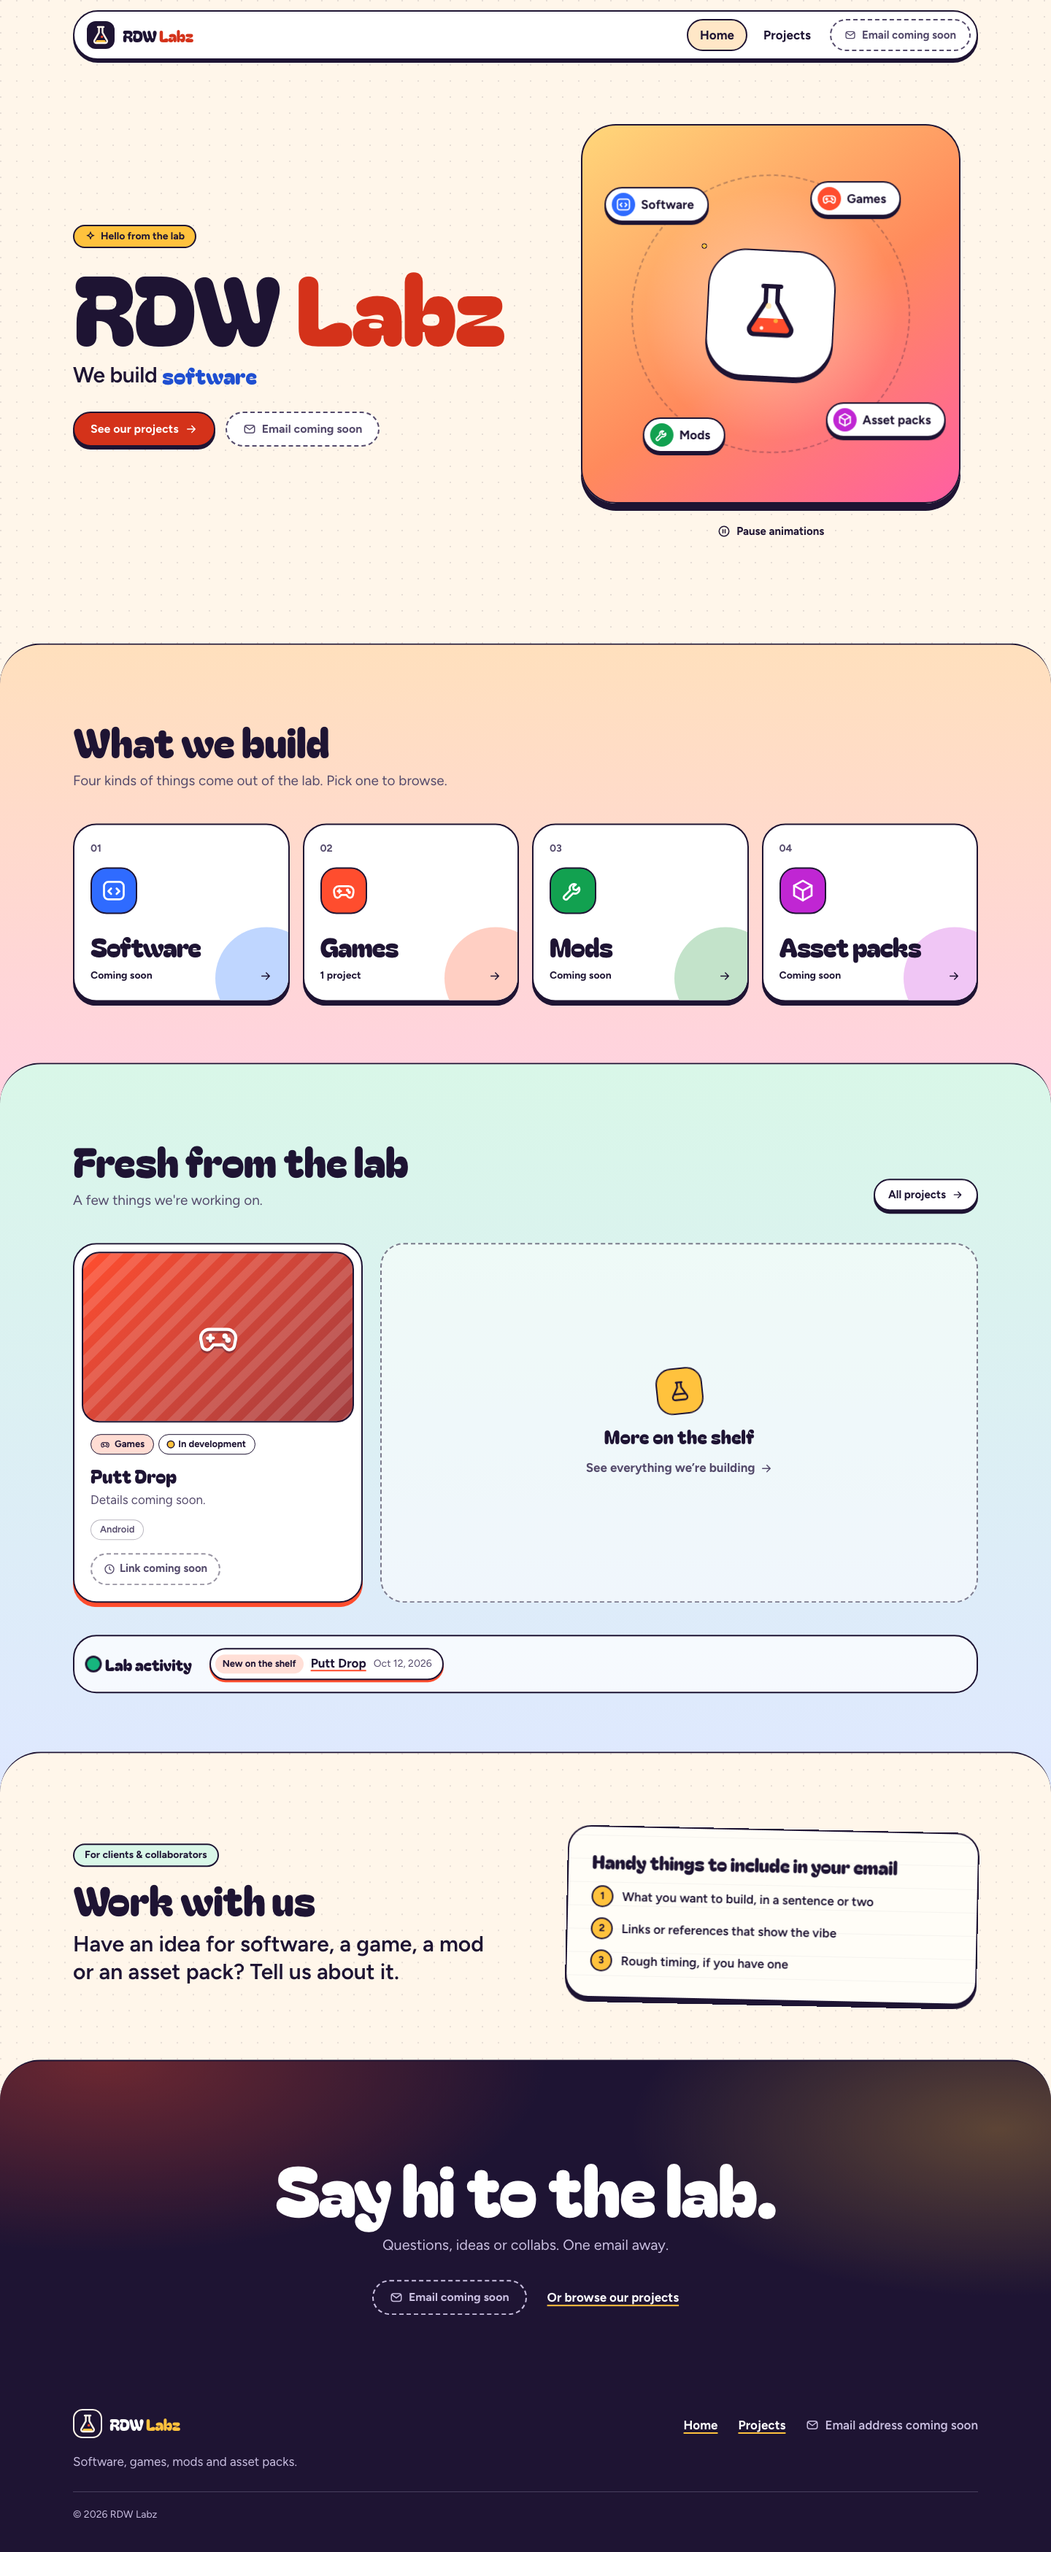
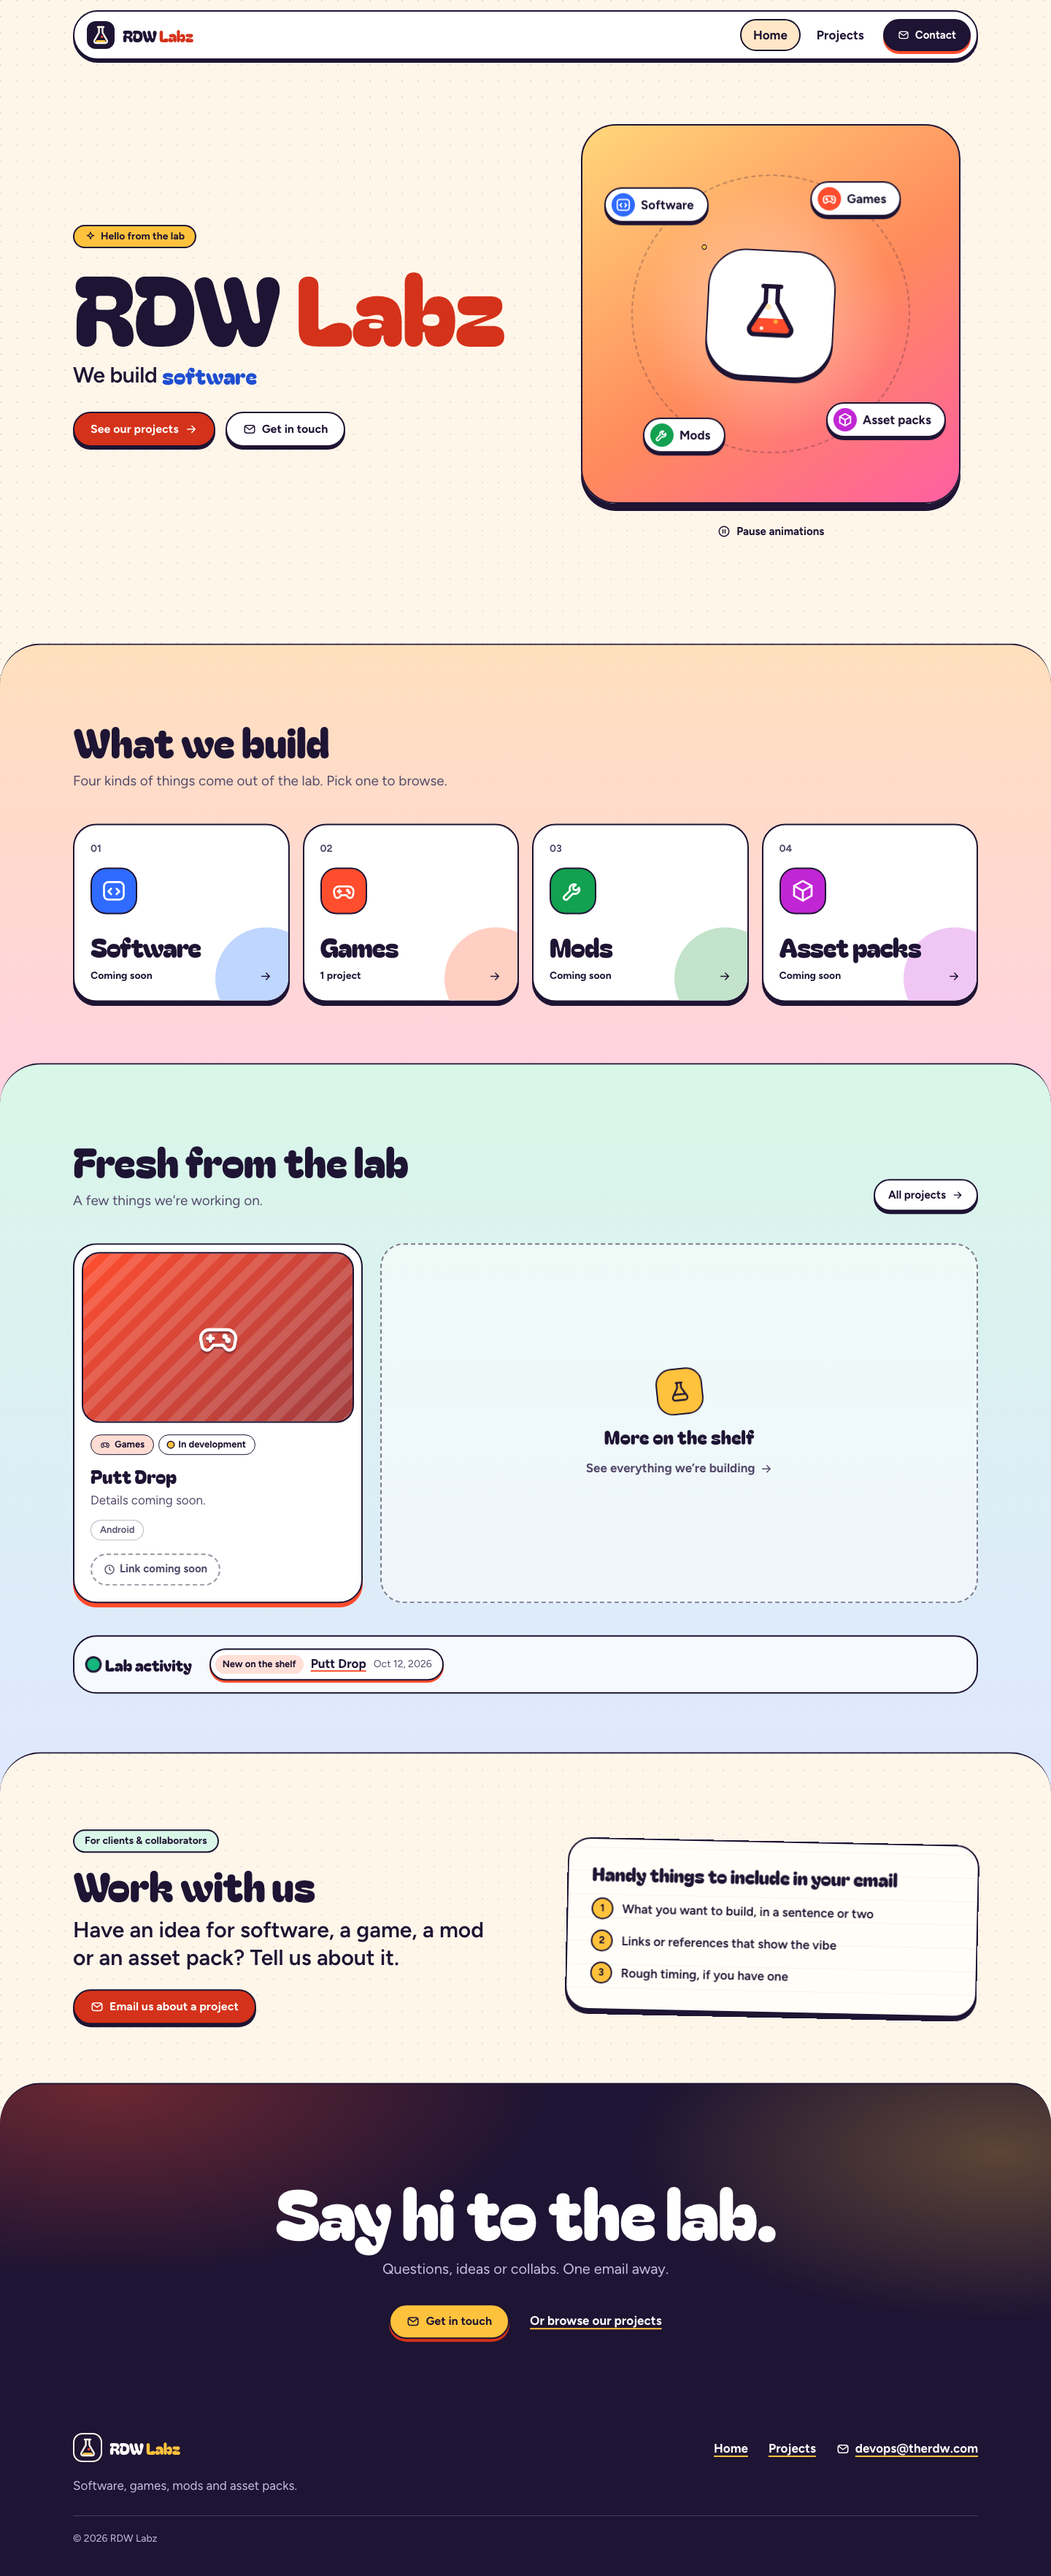
Set contact email to devops@therdw.com; add contact buttons to Work with us and 404

diff --git a/tests/site.spec.ts b/tests/site.spec.ts
@@ -186,12 +186,30 @@ test('unknown routes return the branded 404', async ({ page }) => {
   await expect(page.getByRole('link', { name: 'Back to the lab' })).toHaveAttribute('href', '/');
 });
 
-test('contact: placeholder email never renders a mailto to a TODO address', async ({ page }) => {
+const MAILTO = 'mailto:devops@therdw.com';
+
+for (const path of PAGES) {
+  test(`${path}: every contact spot is a real mailto, no "Email coming soon"`, async ({ page }) => {
+    await page.goto(path);
+    await expect(page.getByText(/email (address )?coming soon/i)).toHaveCount(0);
+    const mailtos = page.locator('a[href^="mailto:"]');
+    expect(await mailtos.count()).toBeGreaterThan(0);
+    for (const a of await mailtos.all()) await expect(a).toHaveAttribute('href', MAILTO);
+    await expect(page.locator(`header a[href="${MAILTO}"]`).first()).toHaveText(/Contact/);
+    await expect(page.locator(`footer a[href="${MAILTO}"]`)).toHaveText(/devops@therdw\.com/);
+  });
+}
+
+test('home: hero, Work with us and CTA band all link to the contact email', async ({ page }) => {
   await page.goto('/');
-  const mailtos = page.locator('a[href^="mailto:"]');
-  for (const a of await mailtos.all()) {
-    await expect(a).not.toHaveAttribute('href', /todo/i);
+  for (const scope of ['[data-hero]', '.wwu', '.cta']) {
+    await expect(page.locator(`${scope} a[href="${MAILTO}"]`), scope).toHaveCount(1);
   }
+});
+
+test('404: offers a way to email the lab', async ({ page }) => {
+  await page.goto('/does-not-exist');
+  await expect(page.locator(`main a[href="${MAILTO}"]`)).toHaveCount(1);
 });
 
 test('SEO: canonical, OG tags, sitemap, robots, favicons', async ({ page, request }) => {

diff --git a/docs/PREFLIGHT.md b/docs/PREFLIGHT.md
@@ -1,6 +1,6 @@
 # Preflight
 
-**Overall: PARTIALLY VERIFIED. Not ready to launch.** Every check the agent could run passes. Launch is blocked on real content (there's no contact email yet, so the site has no working contact route; Putt Drop has no link or one-liner; the tagline is the fallback) and on checks that need a human or a deployed site (screen reader, real devices, other browsers, field metrics).
+**Overall: PARTIALLY VERIFIED. Not ready to launch.** Every check the agent could run passes. Launch is blocked on real content (Putt Drop has no link or one-liner; the tagline is the fallback) and on checks that need a human or a deployed site (screen reader, real devices, other browsers, field metrics).
 
 Last updated 2026-10-12 after Round 2 (Bagel Fat One headings, playful motion, the opt-in project tracker and the Lab activity strip). Unless noted, everything ran against the **production build** (`astro build && astro preview`) in Playwright Chromium.
 
@@ -10,7 +10,7 @@ Status key: PASS · FAIL · BLOCKED · NOT RUN · N/A (with reason)
 |---|---|---|---|---|
 | Scope matches v1 | Home, Projects, 404; footer mailto only; no forms, CMS, logins, store or blog | PASS | `dist/` contains only `index.html`, `projects.html`, `404.html` + assets. The e2e test "dev-only routes are not in the production build" passes | — |
 | No invented facts | All copy and data | PASS | Every unknown is a `TODO:` in `src/data/projects.json` and renders as "coming soon" UI. Entries whose name is TODO are never shown or counted; categories with 0 real projects show "Coming soon" instead of a count, and their filter chip has no count badge (e2e "placeholder entries are never shown or counted"). The hero eyebrow was changed from "Indie dev lab" to "Hello from the lab" (Review pass 1 #3) | Real content is needed (see the TODOs below) |
-| Contact never points at a placeholder | Header, hero, CTA band, footer | PASS | e2e "contact: placeholder email never renders a mailto to a TODO address" | The contact email is still TODO, so there is currently **no working contact route** |
+| Contact | Header Contact pill + mobile menu, hero, Work with us, CTA band, footer, 404 | PASS | `site.contactEmail` is `devops@therdw.com`. e2e on all 3 pages: every mailto is `mailto:devops@therdw.com`, there's no "Email coming soon" text, and the header and footer link to it. Hero, Work with us, CTA band and 404 each have one. The built HTML has no `TODO@` left | The address is on therdw.com, not rdwlabz.com (Braden's choice, 2026-10-12) |
 | Design-system consistency | Tokens, primitives, all pages | PASS (manual review) | `/_gallery` (dev only) with screenshots in `docs/screenshots/gallery/`. Review pass 1 checked the pages against `docs/ART-DIRECTION.md` | — |
 | Journeys and states | 3 journeys from `docs/BRIEF.md`; filters; empty, coming-soon and 404 states; long and short content | PASS | e2e tile → filter journey, filters by click/Space/Enter/URL/reset, empty state, unknown `?c=`, 404 status and page. Fixture builds (`scripts/fixture-build.mjs twenty\|one`) reviewed in pass 2 | — |
 | Responsive | 1440 / 768 / 390 and 320 reflow | PASS | `docs/screenshots/{home,projects,404}-{desktop,tablet,mobile}.png`. e2e reflow at 320px with no horizontal scroll on all 3 pages | — |
@@ -27,7 +27,7 @@ Status key: PASS · FAIL · BLOCKED · NOT RUN · N/A (with reason)
 | Lighthouse (lab) | Mobile profile, 3 runs, median: `/`, `/projects`, `/404` | PASS (rerun after Round 2) | `npm run lhci`: `/` and `/projects` scored 100/100/100/100; `/404` scored 100/100/100 with SEO 63 (intended `noindex`, not gated). LCP about 1.35 s, TBT 0 ms, CLS 0 | Lab numbers from localhost only |
 | Field performance (LCP / INP / CLS) | Real users | NOT RUN | — | Needs a deployed site + Web Analytics |
 | Cross-browser and real devices | Safari, Firefox, iOS, Android | NOT RUN | Only Playwright Chromium was used | Spot-check before launch |
-| Lint / types / tests / build | Whole repo | PASS | `npm run lint` clean; `astro check` 0 errors, 0 warnings, 0 hints; `astro build` OK; `npm test`: 52/52 (36 site e2e, 7 sync, 9 screenshot runs) | — |
+| Lint / types / tests / build | Whole repo | PASS | `npm run lint` clean; `astro check` 0 errors, 0 warnings, 0 hints; `astro build` OK; `npm test`: 56/56 (40 site e2e, 7 sync, 9 screenshot runs) | — |
 | Console and network errors | All 3 pages + client navigation | PASS | e2e collects `pageerror`, console errors and failed requests on every page; the motion probe reports 0 errors | — |
 | SEO basics | Titles, descriptions, canonical, OG/Twitter, favicons, manifest, sitemap, robots | PASS | e2e "SEO: canonical, OG tags, sitemap, robots, favicons" | `public/og.png` text is hard-coded in `scripts/make-icons.mjs` ("We build software, games, mods and asset packs."). To change it for a new tagline, edit the script and rerun it |
 | Analytics | Cloudflare Web Analytics | BLOCKED | The snippet renders only when `PUBLIC_CF_BEACON_TOKEN` is set at build time | Needs Braden to enable Web Analytics and set the token in Cloudflare Pages |
@@ -43,7 +43,6 @@ Status key: PASS · FAIL · BLOCKED · NOT RUN · N/A (with reason)
 
 ## Content still TODO (in `src/data/projects.json`)
 
-- `site.contactEmail`: still `TODO@rdwlabz.com`. The update message had a blank (`____@rdwlabz.com`). Once it's set, every "Email coming soon" becomes a mailto automatically.
 - `site.tagline`: blank in the update message. The UI uses the fallback "We build software, games, mods and asset packs."
 - Putt Drop: `url` (blank in the update), `oneLiner`, `accentColor` (it uses the Games color for now) and `image`.
 - Project 2: blank in the update, so nothing was added.

diff --git a/docs/PROGRESS.md b/docs/PROGRESS.md
@@ -16,6 +16,7 @@
 | 2026-10-12 | Round 2: motion + type    | Done   | Headings in **Bagel Fat One** (picked from a 3-font study on `/_studies#type`; 24 KB Latin subset, fonts 43 KB total). Hero word cycler, wordmark pop, pop-in headings, swaying bench with fizz and hover reactions, parallax, tile wiggle, sticker-peel cards, rising cards, scroll-driven tray slide, scroll-progress bar, and a Pause animations toggle. Everything is off under reduced motion. Lab activity strip on Home (build time). |
 | 2026-10-12 | Round 2: project tracker  | Done   | `scripts/sync-projects.mjs` (opt-in via `rdwlabz.json`, validation, private-repo guard, merge, auto-`released`), `.github/workflows/sync-projects.yml` (daily + manual, PR only), templates, README how-to. Not run on GitHub yet: needs the `RDWLABZ_SYNC_TOKEN` secret. |
 | 2026-10-12 | Round 2: checks           | Done   | Lint clean; build 0 errors; e2e 36/36 + sync 7/7 + screenshots 9/9; budgets OK (JS ≤ 7.3 KB gz); motion-check CLS 0, no leaks; Lighthouse medians 100s (404 SEO 63 by design). See `docs/REVIEWS.md` Round 2. Not pushed or deployed. |
+| 2026-10-12 | Contact email             | Done   | `site.contactEmail` = `devops@therdw.com`; all contact spots are real mailto links (header pill, mobile menu, hero, new Work with us button, CTA band, footer, new 404 button). e2e 40/40 + sync 7/7 + screenshots 9/9. |
 
 ## Baseline (step 1, run 2026-10-12)
 
@@ -43,4 +44,4 @@
 
 ## Blockers / needs from Braden
 
-- Content: tagline, real projects (names, blurbs, links, images, accents), category blurbs, work-with-us line, contact email, launch date. (DNS is confirmed on Cloudflare.) See `docs/PREFLIGHT.md`.
+- Content: tagline, real projects (names, blurbs, links, images, accents), category blurbs, work-with-us line, launch date. (DNS is confirmed on Cloudflare.) See `docs/PREFLIGHT.md`.
